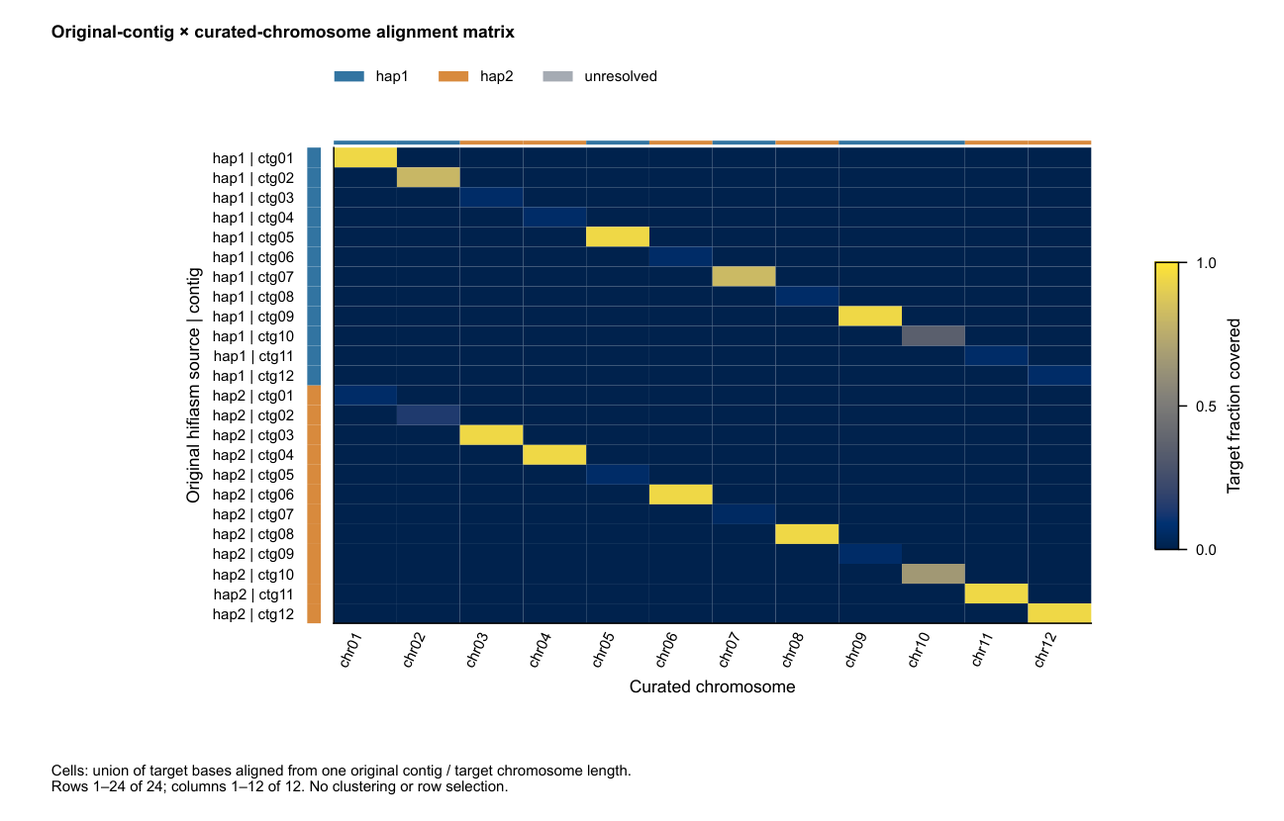
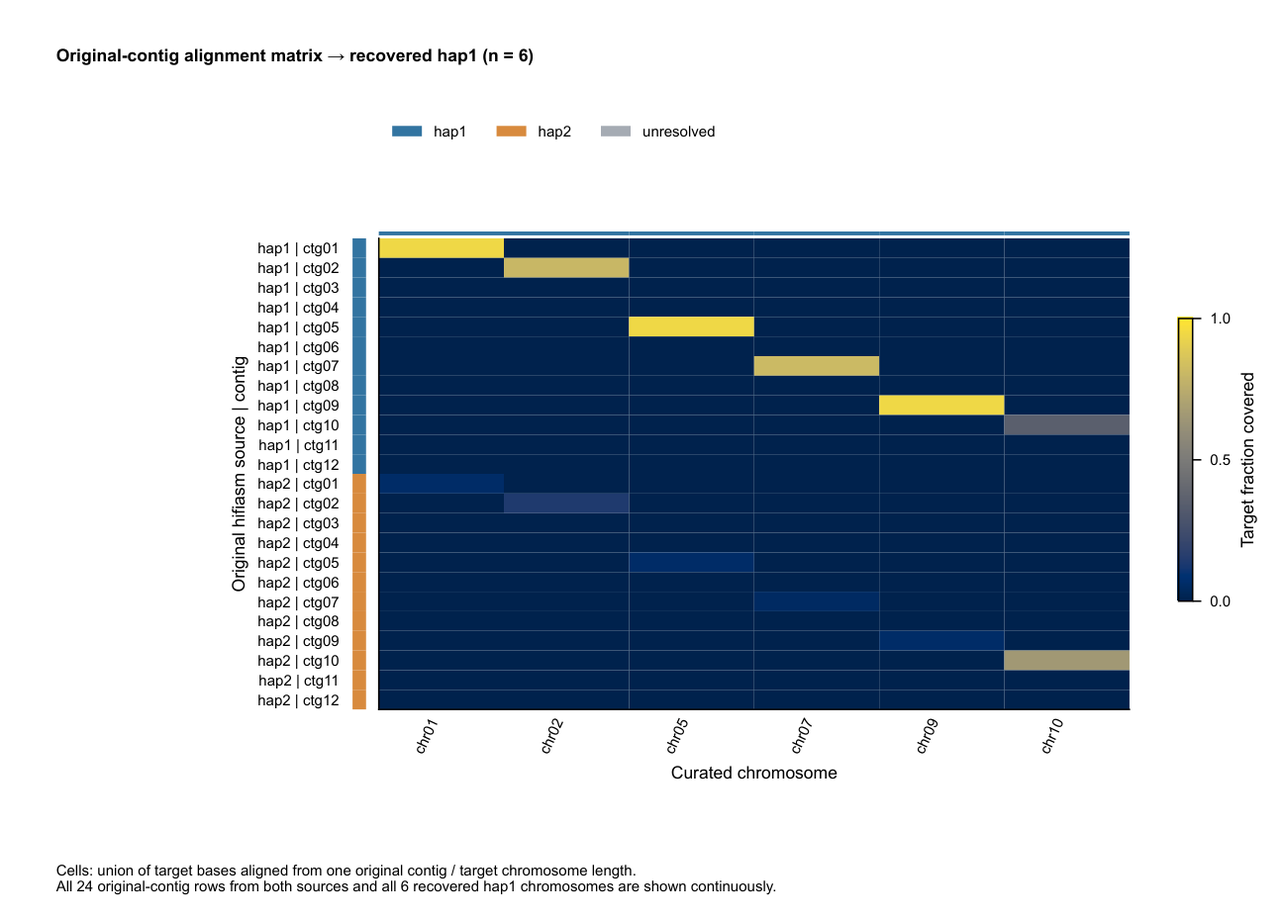
Keep hap alignment matrices continuous and report local rescue diagnostics

Changed region(s): [[0.0308, 0.0301, 0.9869, 0.8434], [0.0308, 0.9337, 0.5243, 0.994], [0.5551, 0.9639, 0.586, 0.994]]

diff --git a/hapreturn/visualize.py b/hapreturn/visualize.py
@@ -96,8 +96,34 @@ def alignment_matrix(data, alignments, intervals):
     return {key: fractions[key] for key in sorted(fractions, key=order)}
 
 
+def window_qc(data):
+    """Count local evidence and mutually exclusive remaining-gray reasons."""
+    metrics = {key: [0, 0] for key in ("all_windows", "raw_unresolved", "rescued_by_expansion",
+                                      "remaining_unresolved", "no_accepted_alignment",
+                                      "below_coverage_threshold", "competing_sources")}
+    def add(key, length):
+        metrics[key][0] += 1
+        metrics[key][1] += length
+    for name, start, end, first, second, origin in data.windows:
+        length = end - start
+        add("all_windows", length)
+        raw = data.window_annotations[(name, start)][0]
+        if raw == "unresolved":
+            add("raw_unresolved", length)
+            if origin != "unresolved":
+                add("rescued_by_expansion", length)
+        if origin == "unresolved":
+            add("remaining_unresolved", length)
+            reason = ("no_accepted_alignment" if first + second == 0 else
+                      "below_coverage_threshold" if max(first, second) / length < data.min_coverage else
+                      "competing_sources")
+            add(reason, length)
+    return [(key, *values) for key, values in metrics.items()]
+
+
 def write_html(path, data, sections):
     from .plotting import palette
+    from . import __version__
     escape, colors = html.escape, palette(data.labels)
     details = {}
     assignment_path = path.parent / "assignment.tsv"
@@ -111,6 +137,18 @@ def write_html(path, data, sections):
     summary = '<section><h2>Recovery summary</h2><table><thead><tr><th>No.</th><th>Source</th><th>Sequence count</th><th>Total length (bp)</th><th>Total length (Mb)</th></tr></thead><tbody>' + stats + '</tbody></table></section>'
     if any(row.get("assignment_mode") == "balanced" for row in details.values()):
         summary += '<section><h2>Group-constrained assignment</h2><p>Equal source counts are enforced within each supplied homolog group. The selected combination maximizes total union-covered bases. The assignment table retains the independent evidence label alongside the final label; review flags are recorded in group_qc.tsv.</p></section>'
+    metric_labels = {"all_windows": "All local windows", "raw_unresolved": "Unresolved before expansion",
+                     "rescued_by_expansion": "Resolved by expansion", "remaining_unresolved": "Still unresolved",
+                     "no_accepted_alignment": "Remaining: no accepted alignment",
+                     "below_coverage_threshold": "Remaining: coverage below threshold",
+                     "competing_sources": "Remaining: competing source support"}
+    qc_table = ''.join(f'<tr><td>{escape(metric_labels[key])}</td><td>{count:,}</td><td>{bases:,}</td><td>{bases / 1e6:.3f}</td></tr>'
+                       for key, count, bases in window_qc(data))
+    maximum_context = max((row[5] for row in data.rescue_attempts), default=0)
+    summary += (f'<section><h2>Local provenance reassessment</h2><p>Window expansion: {len(data.rescue_attempts):,} attempted contexts; '
+                f'largest context: {maximum_context:,} bp. Remaining gray windows have insufficient accepted coverage or competing source support.</p>'
+                '<table><thead><tr><th>Status</th><th>Windows</th><th>Length (bp)</th><th>Length (Mb)</th></tr></thead>'
+                f'<tbody>{qc_table}</tbody></table></section>')
     maximum = max(data.records.values())
     tracks = []
     for index, (name, length) in enumerate(data.records.items()):
@@ -125,7 +163,7 @@ def write_html(path, data, sections):
     options = ''.join(f'<option value="{escape(l, quote=True)}">{escape(l)}</option>' for l in data.labels + ["unresolved"])
     document = '''<!doctype html><html lang="en"><meta charset="utf-8"><meta name="viewport" content="width=device-width"><title>HapReturn report</title>
 <style>body{font:15px Arial,sans-serif;color:#253247;background:#f5f6f8;margin:0}main{max-width:1100px;margin:auto;padding:28px}section{background:white;padding:24px;margin:20px 0}section>svg{display:block;width:100%;height:auto;margin:24px auto}.track{display:grid;grid-template-columns:150px 1fr 110px;align-items:center;gap:10px;margin:8px 0}.track svg{width:100%;height:24px}table{border-collapse:collapse;width:100%}td,th{text-align:left;padding:9px;border-bottom:1px solid #e4e8ee}tr:hover{background:#eef4fc}input,select{padding:8px;margin:8px}small{color:#637083}@media(max-width:600px){main{padding:10px}.track{grid-template-columns:90px 1fr}.track small{display:none}}</style>
-<main><h1>HapReturn</h1><p>Two-source chromosome recovery</p>''' + summary + figures + '''<section><h2>Explore chromosome windows</h2><p>Hover for coordinates and union-covered bases. All rows share the same length scale; gray indicates unresolved evidence. Gray runs are reassessed at increasing context widths up to their full extent; hover shows the raw label and evidence span.</p>''' + ''.join(tracks) + '''</section><section><h2>Chromosome assignments</h2><input id="search" placeholder="Search chromosome" aria-label="Search chromosome"><select id="source" aria-label="Filter source"><option value="">All sources</option>''' + options + f'''</select><p id="visible-count" aria-live="polite"></p><table id="assignments"><thead><tr><th>No.</th><th>Chromosome</th><th>Length (bp)</th><th>{escape(data.labels[0])} coverage</th><th>{escape(data.labels[1])} coverage</th><th>Assignment</th><th>Independent evidence</th><th>Homolog group</th></tr></thead><tbody>{table}</tbody></table></section><p>Window: {data.window_size:,} bp. Coordinates: zero-based, half-open. Local windows and whole-chromosome assignments use their respective union coverage.</p></main>''' + '''<script>const search=document.getElementById('search'),source=document.getElementById('source');function filter(){let count=0;const counts=new Map();document.querySelectorAll('#assignments tbody tr').forEach(row=>{row.hidden=!(row.cells[1].textContent.toLowerCase().includes(search.value.toLowerCase())&&(!source.value||row.dataset.source===source.value));if(!row.hidden){row.cells[0].textContent=++count;counts.set(row.dataset.source,(counts.get(row.dataset.source)||0)+1);}});document.getElementById('visible-count').textContent='Showing '+count+' chromosomes'+(count?' — '+Array.from(counts,([label,n])=>label+': '+n).join('; '):'');}search.addEventListener('input',filter);source.addEventListener('change',filter);filter();</script></html>'''
+<main><h1>HapReturn</h1><p>Two-source chromosome recovery · HapReturn ''' + escape(__version__) + '''</p>''' + summary + figures + '''<section><h2>Explore chromosome windows</h2><p>Hover for coordinates and union-covered bases. All rows share the same length scale; gray indicates unresolved evidence. Gray runs are reassessed at increasing context widths up to their full extent; hover shows the raw label and evidence span.</p>''' + ''.join(tracks) + '''</section><section><h2>Chromosome assignments</h2><input id="search" placeholder="Search chromosome" aria-label="Search chromosome"><select id="source" aria-label="Filter source"><option value="">All sources</option>''' + options + f'''</select><p id="visible-count" aria-live="polite"></p><table id="assignments"><thead><tr><th>No.</th><th>Chromosome</th><th>Length (bp)</th><th>{escape(data.labels[0])} coverage</th><th>{escape(data.labels[1])} coverage</th><th>Assignment</th><th>Independent evidence</th><th>Homolog group</th></tr></thead><tbody>{table}</tbody></table></section><p>Window: {data.window_size:,} bp. Coordinates: zero-based, half-open. Local windows and whole-chromosome assignments use their respective union coverage.</p></main>''' + '''<script>const search=document.getElementById('search'),source=document.getElementById('source');function filter(){let count=0;const counts=new Map();document.querySelectorAll('#assignments tbody tr').forEach(row=>{row.hidden=!(row.cells[1].textContent.toLowerCase().includes(search.value.toLowerCase())&&(!source.value||row.dataset.source===source.value));if(!row.hidden){row.cells[0].textContent=++count;counts.set(row.dataset.source,(counts.get(row.dataset.source)||0)+1);}});document.getElementById('visible-count').textContent='Showing '+count+' chromosomes'+(count?' — '+Array.from(counts,([label,n])=>label+': '+n).join('; '):'');}search.addEventListener('input',filter);source.addEventListener('change',filter);filter();</script></html>'''
     path.write_text(document, encoding="utf-8")
 
 
@@ -147,6 +185,10 @@ def make_report(out_dir, labels, records, intervals, assignments, all_records,
         writer.writerow(["seq_id", "window_start", "window_end", "evidence_start", "evidence_end", "context_length_bp",
                          *(f"{label}_covered_bp" for label in data.labels), "assignment"])
         writer.writerows(data.rescue_attempts)
+    with open(out_dir / "window_qc.tsv", "w", encoding="utf-8", newline="") as handle:
+        writer = csv.writer(handle, delimiter="\t", lineterminator="\n")
+        writer.writerow(["metric", "n_windows", "total_bp"])
+        writer.writerows(window_qc(data))
     matrix = alignment_matrix(data, alignments, intervals)
     with open(out_dir / "alignment_matrix.tsv", "w", encoding="utf-8", newline="") as handle:
         writer = csv.writer(handle, delimiter="\t", lineterminator="\n")

diff --git a/hapreturn/plotting.py b/hapreturn/plotting.py
@@ -1,4 +1,4 @@
-"""Publication figures: shared scales, editable text and bounded page sizes."""
+"""Publication figures with shared scales, editable text and continuous sets."""
 import io
 import xml.etree.ElementTree as ET
 from itertools import groupby
@@ -176,35 +176,43 @@ def partition_pages(data, pdf):
 def matrix_pages(data, matrix, pdf):
     import numpy as np
     labels, colors, names = data.labels, palette(data.labels), list(data.records)
-    rows = list(matrix)
+    rowkeys = list(matrix)
     pages = []
-    for r0 in range(0, len(rows), 36):
-        rowkeys = rows[r0:r0 + 36]
-        for c0 in range(0, len(names), 24):
-            columns = names[c0:c0 + 24]
-            values = np.array([[matrix[key].get(n, 0.0) for n in columns] for key in rowkeys])
-            fig, ax = plt.subplots(figsize=(WIDTH, min(170, max(85, 45 + 3 * len(rowkeys))) / 25.4))
-            fig.subplots_adjust(left=0.26, right=0.85, bottom=0.24, top=0.82)
-            mesh = ax.pcolormesh(values, cmap="cividis", vmin=0, vmax=1, shading="flat", rasterized=False,
-                                edgecolors="face", linewidth=0, antialiased=False)
-            ax.set_xticks([i + 0.5 for i in range(len(columns))], columns, rotation=65, ha="right")
-            ax.set_yticks([i + 0.5 for i in range(len(rowkeys))], [f"{s} | {q}" for s, q in rowkeys])
-            ax.invert_yaxis()
-            ax.tick_params(length=0, pad=3)
-            ax.tick_params(axis="y", pad=16)
-            ax.set(xlabel="Curated chromosome", ylabel="Original hifiasm source | contig")
-            for i, (source, query) in enumerate(rowkeys):
-                ax.add_patch(Rectangle((-len(columns) * 0.035, i), len(columns) * 0.018, 1,
-                                       facecolor=colors[source], edgecolor="none", clip_on=False))
-            for i, name in enumerate(columns):
-                ax.add_patch(Rectangle((i, -0.35), 1, 0.20, facecolor=colors[data.assignments[name]], edgecolor="none", clip_on=False))
-            cax = fig.add_axes([0.90, 0.33, 0.018, 0.35])
-            bar = fig.colorbar(mesh, cax=cax, ticks=[0, 0.5, 1])
-            bar.set_label("Target fraction covered")
-            fig.text(0.04, 0.97, "Original-contig × curated-chromosome alignment matrix", fontsize=7, weight="bold", va="top")
-            fig.legend(handles=[Patch(facecolor=colors[l], label=l) for l in labels + ["unresolved"]],
-                       loc="upper left", bbox_to_anchor=(0.25, 0.93), ncol=3)
-            fig.text(0.04, 0.035, "Cells: union of target bases aligned from one original contig / target chromosome length.\n"
-                     f"Rows {r0 + 1}–{r0 + len(rowkeys)} of {len(rows)}; columns {c0 + 1}–{c0 + len(columns)} of {len(names)}. No clustering or row selection.", fontsize=6)
-            pages.append(save_page(fig, pdf, f"matrix_{r0}_{c0}"))
+    for offset, (recovered_source, columns) in enumerate(source_blocks(data, size=len(names))):
+        # Keep every original-contig row from both sources, including zero cells.
+        # Increase physical dimensions to retain readable labels without tiling.
+        width_mm = max(183, 76 + 4 * len(columns))
+        height_mm = max(100, 64 + 2.8 * len(rowkeys))
+        values = np.array([[matrix[key].get(n, 0.0) for n in columns] for key in rowkeys])
+        fig, ax = plt.subplots(figsize=(width_mm / 25.4, height_mm / 25.4))
+        fig.subplots_adjust(left=54 / width_mm, right=1 - 22 / width_mm,
+                            bottom=30 / height_mm, top=1 - 34 / height_mm)
+        mesh = ax.pcolormesh(values, cmap="cividis", vmin=0, vmax=1, shading="flat", rasterized=False,
+                            edgecolors="face", linewidth=0, antialiased=False)
+        ax.set_xticks([i + 0.5 for i in range(len(columns))], columns, rotation=65, ha="right")
+        ax.set_yticks([i + 0.5 for i in range(len(rowkeys))], [f"{s} | {q}" for s, q in rowkeys])
+        ax.invert_yaxis()
+        ax.tick_params(length=0, pad=3)
+        ax.tick_params(axis="y", pad=16)
+        ax.set(xlabel="Curated chromosome", ylabel="Original hifiasm source | contig")
+        for i, (source, query) in enumerate(rowkeys):
+            ax.add_patch(Rectangle((-len(columns) * 0.035, i), len(columns) * 0.018, 1,
+                                   facecolor=colors[source], edgecolor="none", clip_on=False))
+        for i, name in enumerate(columns):
+            ax.add_patch(Rectangle((i, -0.35), 1, 0.20, facecolor=colors[data.assignments[name]], edgecolor="none", clip_on=False))
+        colorbar_mm = min(50, (height_mm - 64) * 0.6)
+        cax = fig.add_axes([1 - 15 / width_mm, 0.5 - colorbar_mm / height_mm / 2,
+                            2 / width_mm, colorbar_mm / height_mm])
+        bar = fig.colorbar(mesh, cax=cax, ticks=[0, 0.5, 1])
+        bar.set_label("Target fraction covered")
+        fig.text(8 / width_mm, 1 - 7 / height_mm,
+                 f"Original-contig alignment matrix → recovered {recovered_source} (n = {len(columns)})",
+                 fontsize=7, weight="bold", va="top")
+        fig.legend(handles=[Patch(facecolor=colors[l], label=l) for l in labels + ["unresolved"]],
+                   loc="upper left", bbox_to_anchor=(54 / width_mm, 1 - 16 / height_mm), ncol=3)
+        fig.text(8 / width_mm, 4 / height_mm,
+                 "Cells: union of target bases aligned from one original contig / target chromosome length.\n"
+                 f"All {len(rowkeys)} original-contig rows from both sources and all {len(columns)} recovered {recovered_source} chromosomes are shown continuously.",
+                 fontsize=6)
+        pages.append(save_page(fig, pdf, f"matrix_{offset}"))
     return pages

diff --git a/tests/test_visualize.py b/tests/test_visualize.py
@@ -6,7 +6,7 @@ import re
 from dataclasses import replace
 from pathlib import Path
 
-from hapreturn.visualize import make_report, window_support, prepare_data, alignment_matrix
+from hapreturn.visualize import make_report, window_support, prepare_data, alignment_matrix, window_qc
 from hapreturn.evidence import Alignment, read_paf
 from hapreturn.comparison import ribbon_vertices, common_scale, stacked_positions
 
@@ -50,6 +50,9 @@ class VisualizationTests(unittest.TestCase):
             self.assertIn('chr&lt;&amp;&quot;', report)
             self.assertIn('addEventListener', report)
             self.assertIn('Recovery summary', report)
+            self.assertIn('Local provenance reassessment', report)
+            self.assertIn('largest context:', report)
+            self.assertTrue((out / 'window_qc.tsv').is_file())
             self.assertIn('<th>No.</th>', report)
             self.assertIn("#assignments tbody tr", report)
             self.assertIn('row.cells[1].textContent', report)
@@ -70,6 +73,42 @@ class VisualizationTests(unittest.TestCase):
         matrix = alignment_matrix(data, hits, intervals)
         self.assertEqual(matrix[("hap1", "same_id")]["chr"], 0.75)
         self.assertEqual(matrix[("hap2", "same_id")]["chr"], 0.25)
+
+    def test_window_qc_distinguishes_rescue_and_remaining_evidence(self):
+        records = {"rescued": 20, "missing": 10, "weak": 10, "mixed": 10}
+        intervals = {"hap1": {"rescued": [(0, 4), (10, 12)], "weak": [(0, 1)], "mixed": [(0, 6)]},
+                     "hap2": {"rescued": [(0, 4)], "mixed": [(0, 5)]}}
+        data = prepare_data(["hap1", "hap2"], records, intervals,
+                            {name: "hap1" for name in records}, records, window_size=10)
+        qc = {key: (count, bases) for key, count, bases in window_qc(data)}
+        self.assertEqual(qc["all_windows"], (5, 50))
+        self.assertEqual(qc["raw_unresolved"], (5, 50))
+        self.assertEqual(qc["rescued_by_expansion"], (2, 20))
+        self.assertEqual(qc["remaining_unresolved"], (3, 30))
+        for reason in ("no_accepted_alignment", "below_coverage_threshold", "competing_sources"):
+            self.assertEqual(qc[reason], (1, 10))
+
+    def test_continuous_matrix_keeps_all_rows_and_chromosomes_per_source(self):
+        from matplotlib.backends.backend_pdf import PdfPages
+        from hapreturn.plotting import matrix_pages, STYLE
+        import matplotlib.pyplot as plt
+        records = {f"chr{i}": 100 for i in range(80)}
+        assignments = {name: "hap1" if i % 2 == 0 else "hap2" for i, name in enumerate(records)}
+        data = prepare_data(["hap1", "hap2"], records, {"hap1": {}, "hap2": {}}, assignments, records)
+        matrix = {(assignments[name], f"query{i}"): {name: 1.0} for i, name in enumerate(records)}
+        with tempfile.TemporaryDirectory(dir=Path(__file__).parent) as directory:
+            path = Path(directory) / "matrix.pdf"
+            with plt.rc_context(STYLE), PdfPages(path) as pdf:
+                pages = matrix_pages(data, matrix, pdf)
+            self.assertEqual(len(pages), 2)
+            self.assertEqual(len(re.findall(rb"/Type /Page\b", path.read_bytes())), 2)
+            self.assertIn("chr78", pages[0])
+            self.assertNotIn("chr79", pages[0])
+            self.assertIn("chr79", pages[1])
+            self.assertNotIn("chr78", pages[1])
+            for page in pages:
+                for index in range(80):
+                    self.assertIn(f"query{index}", page)
 
     def test_source_blocks_do_not_mix_14_plus_14_or_higher_counts(self):
         from hapreturn.plotting import source_blocks

diff --git a/hapreturn/cli.py b/hapreturn/cli.py
@@ -297,7 +297,7 @@ def run():
     output_names += [f"{label}_to_final.paf" for label in sources]
     output_names += ["assignment.tsv", "group_qc.tsv", "summary.tsv", "homolog_groups.tsv"]
     if not args.no_plots:
-        output_names += ["report.html", "window_provenance.tsv", "window_rescue.tsv", "alignment_matrix.tsv", "alignment_links.tsv",
+        output_names += ["report.html", "window_provenance.tsv", "window_rescue.tsv", "window_qc.tsv", "alignment_matrix.tsv", "alignment_links.tsv",
                          "partition.pdf", "alignment_matrix.pdf", "hap_comparison.pdf"]
         size = args.plot_window_size or max(1, (max(records.values()) + 99) // 100)
         if sum((length + size - 1) // size for length in records.values()) > 200000:

diff --git a/hapreturn/__init__.py b/hapreturn/__init__.py
@@ -1,3 +1,3 @@
 """HapReturn: recover assembly source provenance."""
 
-__version__ = "0.5.0"
+__version__ = "0.5.1"

diff --git a/docs/figure-design.md b/docs/figure-design.md
@@ -13,14 +13,17 @@ that evidence consistent or mixed along the curated assembly?
   evidence. Rounded ends depict sequence boundaries; no centromere is inferred.
 - `alignment_matrix.pdf`: original source contigs by curated chromosomes show
   the target fraction covered by each contig, with source and assignment keys.
+  Each recovered source has one continuous matrix with all original-contig rows
+  from both sources and all chromosomes assigned to that recovered source.
 - `hap_comparison.pdf`: coordinate-aware ribbons link original hifiasm contigs
   to recovered chromosomes; color always denotes the original source and
   reverse-strand links retain their orientation.
 
 These are descriptive assembly figures, not replicated biological comparisons.
 Counts are sequence counts; no inferential tests or error bars are applicable.
-Whole-chromosome assignments and local window labels use the reported coverage
-and dominance thresholds. Overlapping intervals from the same source (or the
+Whole-chromosome balanced assignments maximize support under group copy quotas;
+independent and local window evidence use the reported coverage and dominance
+thresholds. Overlapping intervals from the same source (or the
 same contig in matrix cells) are counted once. Off-source alignments are evidence
 of sequence similarity, not an estimate of bases moved between haplotypes.
 
@@ -28,15 +31,16 @@ of sequence similarity, not an estimate of bases moved between haplotypes.
 
 Python/matplotlib produces vector PDF with embedded TrueType fonts, 5–7 pt
 sans-serif text, 8 pt lowercase panel labels, white backgrounds, and one
-consistent blue/orange source palette. Figure width is 183 mm and page height
-is at most 170 mm. Large matrices and chromosome collections are paginated
-instead of reducing labels below 5 pt. HTML embeds the same rendered figures
-and searchable quantitative evidence without external resources.
+consistent blue/orange source palette. Partition figures use a width of 183 mm
+and page heights up to 170 mm. Alignment matrices increase width and height
+with record count; correspondence figures increase height. Each recovered set
+remains continuous without reducing label sizes. HTML embeds the same rendered
+figures and searchable quantitative evidence without external resources.
 
 Machine-readable source data include `assignment.tsv`, `summary.tsv`,
-`window_provenance.tsv`, `alignment_matrix.tsv` and `alignment_links.tsv`.
-The full matrix is exported even when it spans several PDF pages. No contigs
-are silently removed to simplify the visualization.
+`window_provenance.tsv`, `window_rescue.tsv`, `window_qc.tsv`,
+`alignment_matrix.tsv` and `alignment_links.tsv`. The full matrix is exported
+with all selected chromosomes. No contigs are removed to simplify the figure.
 
 Formatting follows the [Nature figure specifications](https://research-figure-guide.nature.com/figures/preparing-figures-our-specifications/)
 and [panel export guidance](https://research-figure-guide.nature.com/figures/building-and-exporting-figure-panels/).

diff --git a/docs/method.md b/docs/method.md
@@ -33,6 +33,8 @@ Identify runs of consecutive raw unresolved windows. For every window in a run, 
 
 `window_rescue.tsv` records attempted contexts, their source-covered bases and decisions. `window_provenance.tsv` preserves raw and revised labels, the method, and context coordinates. Thus a context-supported label is distinguishable from direct window evidence. Coordinates are zero-based and half-open.
 
+`window_qc.tsv` and HTML summarize raw unresolved, rescued and remaining unresolved windows by count and sequence length. Remaining windows are categorized by their original local evidence: no accepted alignment, maximum source coverage below threshold, or competing source support. Expansion reuses the same evidence, so a full gray run can still fail the thresholds.
+
 ## Figures
 
-Source-support rows use faint horizontal guides. Count and assembly-length labels use plain numeric formatting. Chromosome outlines share a length scale without inferred centromeres. Alignment-matrix cells are union-covered target bases from one original contig divided by target length. Correspondence ribbons preserve PAF query and target intervals and strand. Every recovered source is drawn in one continuous figure with height adapted to record count; both sides share a base-pair scale and source colors follow the original contigs. HTML retains numbered filtering, source counts, raw evidence and constrained labels.
+Source-support rows use faint horizontal guides. Count and assembly-length labels use plain numeric formatting. Chromosome outlines share a length scale without inferred centromeres. Alignment-matrix cells are union-covered target bases from one original contig divided by target length. Each recovered source has one complete matrix: columns contain all chromosomes assigned to that source and rows retain all original contigs from both sources, including zero cells. Matrix width and height adapt to column and row counts without pagination. Correspondence ribbons preserve PAF query and target intervals and strand. Every recovered source is drawn in one continuous correspondence figure with height adapted to record count; both sides share a base-pair scale and source colors follow the original contigs. HTML retains numbered filtering, source counts, raw evidence and constrained labels.

diff --git a/README.md b/README.md
@@ -75,12 +75,14 @@ Within each original contiguous gray run, expand an unresolved window's evidence
 
 `window_provenance.tsv` records raw and revised labels, method and evidence span. `window_rescue.tsv` records every context attempt. Local labels are separate from chromosome group assignments.
 
+`window_qc.tsv` and the HTML reassessment table report how many windows were resolved by expansion and why others remain gray. Expanding a context does not add alignment evidence; an uncovered run or competing source support can remain unresolved at its full length. Updating these figures reuses the PAFs.
+
 ## Outputs
 
 - `hap1.fa`, `hap2.fa`, `unresolved.fa`, `unplaced.fa`: sequence partitions.
 - `assignment.tsv`, `summary.tsv`, `homolog_groups.tsv`, `group_qc.tsv`: assignment evidence and checks.
 - `partition.pdf`: source evidence, counts, lengths and chromosome provenance.
-- `alignment_matrix.pdf`: original-contig × curated-chromosome support.
+- `alignment_matrix.pdf`: one complete original-contig × curated-chromosome matrix per recovered source, with dimensions adapted to record count.
 - `hap_comparison.pdf`: one continuous, height-adaptive correspondence figure per recovered source.
 - `report.html`: all figures, source statistics, window hover and numbered filtering.
 
@@ -115,8 +117,10 @@ colors retain that evidence. This is the second figure in `partition.pdf`.
 
 Rows represent original contigs and columns represent curated chromosomes.
 Each cell gives the fraction of the target chromosome covered by one contig;
-colored keys identify the original source and the recovered assignment.
-Exported in `alignment_matrix.pdf`.
+colored keys identify the original source and the recovered assignment. Each
+recovered hap has one continuous matrix containing all original-contig rows
+from both sources, without row or column pagination. The hap1 example is shown
+below. Exported in `alignment_matrix.pdf`.
 
 ![Synthetic original-contig to curated-chromosome alignment heatmap](docs/images/alignment_matrix.png)
 

diff --git a/CHANGELOG.md b/CHANGELOG.md
@@ -1,5 +1,11 @@
 # Changelog
 
+## 0.5.1
+
+- Draw a complete alignment matrix for each recovered hap, retaining all original-contig rows from both sources and adapting figure dimensions without pagination.
+- Add local-window expansion counts, remaining unresolved reasons and report version to HTML; export the same evidence summary as window_qc.tsv.
+- Restore the README workflow diagram and reproducible synthetic figure gallery in English and Chinese.
+
 ## 0.5.0
 
 - Default to exact equal-copy assignment within homolog groups; require even ploidy and grouped chromosome order or a group table.
